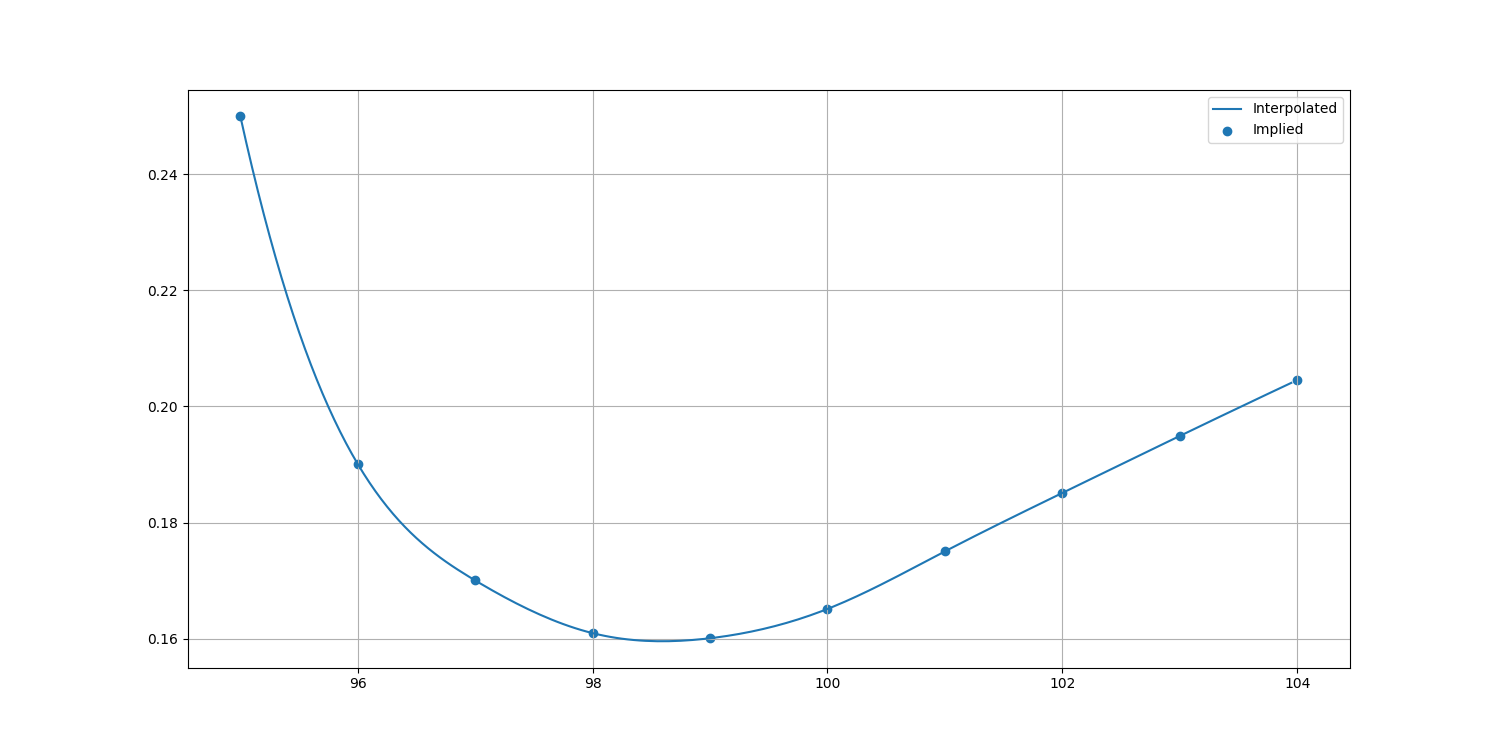
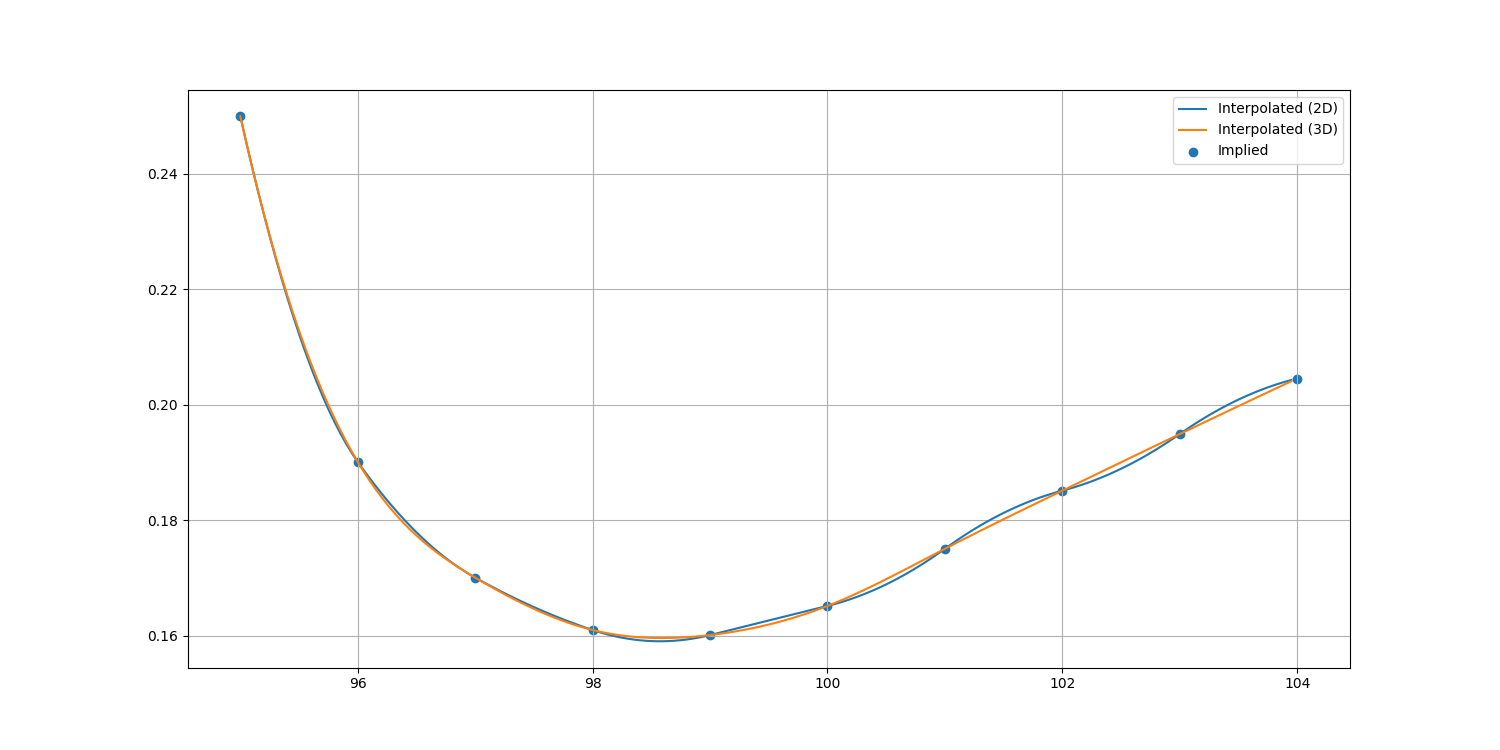
Added Custom Interpolation

diff --git a/project.py b/project.py
@@ -6,6 +6,7 @@ from scipy.interpolate import interp1d
 from scipy.stats import norm
 
 import svi
+import utils
 import black_scholes
 
 # Report Link : https://www.overleaf.com/project/639051dcb072f741700fb0f1
@@ -33,20 +34,23 @@ for maturity in [3, 6, 9, 12]:
 
 # Calibrate Interpolation Function
 interp_function = interp1d(x=df_mkt["Strike"], y=df_mkt["IV (12M)"], kind='cubic')
+my_interp_function = utils.Interp(x_list=df_mkt["Strike"], y_list=df_mkt["IV (12M)"])
 
 # Create Interpolated Risk Neutral Density Dataframe
 df_density = pd.DataFrame()
 df_density["Strike"] = np.arange(min(df_mkt["Strike"]), max(df_mkt["Strike"]), 0.05)
 df_density["IV"] = df_density.apply(lambda x: interp_function(x["Strike"]), axis=1)
+df_density["IV (2D)"] = df_density.apply(lambda x: my_interp_function.get_image(x["Strike"]), axis=1)
 df_density["Price"] = df_density.apply(
     lambda x: black_scholes.BS_Price(df=1, f=100, k=x["Strike"], t=1, v=x["IV"], OptType="C"), axis=1)
-df_density["Gamma Strike"] = (df_density["Price"].shift(1) - 2 * df_density["Price"] + df_density["Price"].shift(-1)) / pow(
-    0.01, 2)
+df_density["Gamma Strike"] = (df_density["Price"].shift(1) - 2 * df_density["Price"] + df_density["Price"].shift(-1)) \
+                             / pow(0.01, 2)
 df_density["Density"] = df_density["Gamma Strike"] / df_density["Gamma Strike"].sum()
 
 # Plot & Save Graph: Interpolated Volatilities
 fig1, axs1 = plt.subplots(nrows=1, ncols=1, figsize=(15, 7.5))
-axs1.plot(df_density["Strike"], df_density["IV"], label="Interpolated")
+axs1.plot(df_density["Strike"], df_density["IV (2D)"], label="Interpolated (2D)")
+axs1.plot(df_density["Strike"], df_density["IV"], label="Interpolated (3D)")
 axs1.scatter(df_mkt["Strike"], df_mkt["IV (12M)"], label="Implied")
 axs1.grid()
 axs1.legend()
@@ -64,12 +68,12 @@ df_density["LFM"] = df_density.apply(lambda x: np.log(x["Strike"] / 100), axis=1
 
 # Calibrate SVI Curve
 SVI_params = svi.SVI_calibration(k_list=df_density["LFM"], mktTotVar_list=df_density["TV"],
-                             weights_list=df_density["IV"] * df_density["IV"], use_durrleman_cond=True)
+                                 weights_list=df_density["IV"] * df_density["IV"], use_durrleman_cond=True)
 
 # Compute SVI Volatilities
 df_density["IV (SVI)"] = df_density.apply(
-    lambda x: np.sqrt(svi.SVI(k=np.log(x["Strike"] / 100), a_=SVI_params["a_"], b_=SVI_params["b_"], rho_=SVI_params["rho_"],
-                        m_=SVI_params["m_"], sigma_=SVI_params["sigma_"])), axis=1)
+    lambda x: np.sqrt(svi.SVI(k=np.log(x["Strike"] / 100), a_=SVI_params["a_"], b_=SVI_params["b_"],
+                              rho_=SVI_params["rho_"], m_=SVI_params["m_"], sigma_=SVI_params["sigma_"])), axis=1)
 
 # Plot & Save Graph: SVI Calibration
 fig3, axs3 = plt.subplots(nrows=1, ncols=1, figsize=(15, 7.5))
@@ -84,16 +88,16 @@ fig3.savefig('results/1.3_SVI_Calibration.png')
 df_density_bis = pd.DataFrame()
 df_density_bis["Strike"] = np.arange(70, 130, 0.1)
 df_density_bis["IV (SVI)"] = df_density_bis.apply(
-    lambda x: np.sqrt(svi.SVI(k=np.log(x["Strike"] / 100), a_=SVI_params["a_"], b_=SVI_params["b_"], rho_=SVI_params["rho_"],
-                        m_=SVI_params["m_"], sigma_=SVI_params["sigma_"])), axis=1)
+    lambda x: np.sqrt(svi.SVI(k=np.log(x["Strike"] / 100), a_=SVI_params["a_"], b_=SVI_params["b_"],
+                              rho_=SVI_params["rho_"], m_=SVI_params["m_"], sigma_=SVI_params["sigma_"])), axis=1)
 
 # Compute Option Price Continuum
 df_density_bis["Price (SVI)"] = df_density_bis.apply(
     lambda x: black_scholes.BS_Price(df=1, f=100, k=x["Strike"], t=1, v=x["IV (SVI)"], OptType="C"), axis=1)
 
 # Compute SVI Breeden-Litzenberger Density
-df_density_bis["Gamma Strike (SVI)"] = (df_density_bis["Price (SVI)"].shift(1) - 2 * df_density_bis["Price (SVI)"] + df_density_bis["Price (SVI)"].shift(-1)) / pow(
-    0.01, 2)
+df_density_bis["Gamma Strike (SVI)"] = (df_density_bis["Price (SVI)"].shift(1) - 2 * df_density_bis["Price (SVI)"] +
+                                        df_density_bis["Price (SVI)"].shift(-1)) / pow(0.01, 2)
 df_density_bis["Density (SVI)"] = df_density_bis["Gamma Strike (SVI)"] / df_density_bis["Gamma Strike (SVI)"].sum()
 
 # Gaussian Density Comparison

diff --git a/utils.py b/utils.py
@@ -1,0 +1,87 @@
+import numpy as np
+
+
+class Interp:
+    def __init__(self, x_list, y_list):
+        self.x_list = x_list
+        self.y_list = y_list
+        self.n = len(x_list)
+        self.U = self.__compute_coefs()
+
+    def get_image(self, x):
+        a, b, c = 0, 0, 0
+        for i in range(0, self.n - 1):
+            if self.x_list[i] <= x <= self.x_list[i + 1]:
+                a, b, c = self.U[3 * i], self.U[3 * i + 1], self.U[3 * i + 2]
+                break
+        return a * pow(x, 2) + b * x + c
+
+    def __compute_coefs(self):
+        matrix = []
+        # Compute V
+        V = []
+        for i in range(1, self.n):
+            V.append(self.y_list[i])
+        for i in range(0, self.n - 1):
+            V.append(self.y_list[i])
+        while len(V) < 3 * (self.n - 1):
+            V.append(0)
+        # Compute M
+        # P_i+1 = f(x_i+1)
+        for i in range(0, self.n - 1):
+            row = []
+            for j in range(0, 3 * (self.n - 1)):
+                if j == 3 * i:
+                    row.append(pow(self.x_list[i + 1], 2))
+                elif j == 3 * i + 1:
+                    row.append(self.x_list[i + 1])
+                elif j == 3 * i + 2:
+                    row.append(1)
+                else:
+                    row.append(0)
+            matrix.append(row)
+        # P_i = f(x_i)
+        for i in range(0, self.n - 1):
+            row = []
+            for j in range(0, 3 * (self.n - 1)):
+                if j == 3 * i:
+                    row.append(pow(self.x_list[i], 2))
+                elif j == 3 * i + 1:
+                    row.append(self.x_list[i])
+                elif j == 3 * i + 2:
+                    row.append(1)
+                else:
+                    row.append(0)
+            matrix.append(row)
+        # P'_i = P'_i+1
+        for i in range(1, self.n - 1):
+            row = []
+            for j in range(0, 3 * (self.n - 1)):
+                if j == 3 * (i-1):
+                    row.append(2 * self.x_list[i])
+                elif j == 3 * (i-1) + 1:
+                    row.append(1)
+                elif j == 3 * (i-1) + 3:
+                    row.append(-2 * self.x_list[i])
+                elif j == 3 * (i-1) + 4:
+                    row.append(-1)
+                else:
+                    row.append(0)
+            matrix.append(row)
+        # P''_n/2 = 0
+        row = []
+        for i in range(0, 3 * (self.n - 1)):
+            if i == 3 * (int(self.n / 2) - 1):
+                row.append(1)
+            else:
+                row.append(0)
+        matrix.append(row)
+        M = np.matrix(matrix)
+        U = np.matmul(M.I, np.array(V))
+        return np.array(U)[0]
+
+
+if __name__ == '__main__':
+    my_interp = Interp(x_list=[-3, -2, -1, 0, 1, 2, 3], y_list=[10, 5, 2, 0, 2, 5, 10])
+    image = my_interp.get_image(x=2.5)
+    print(image)
